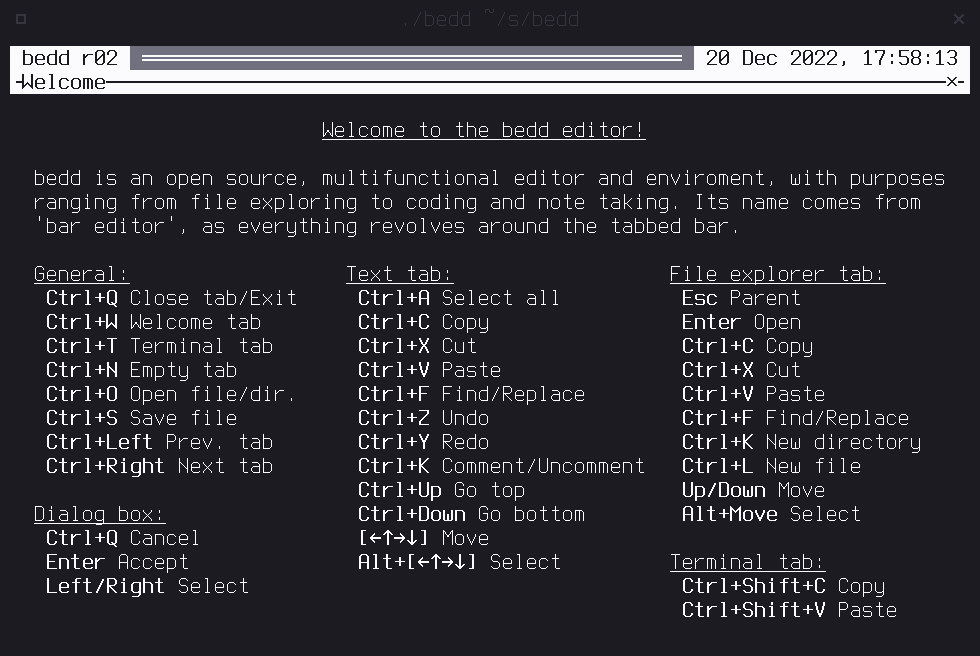
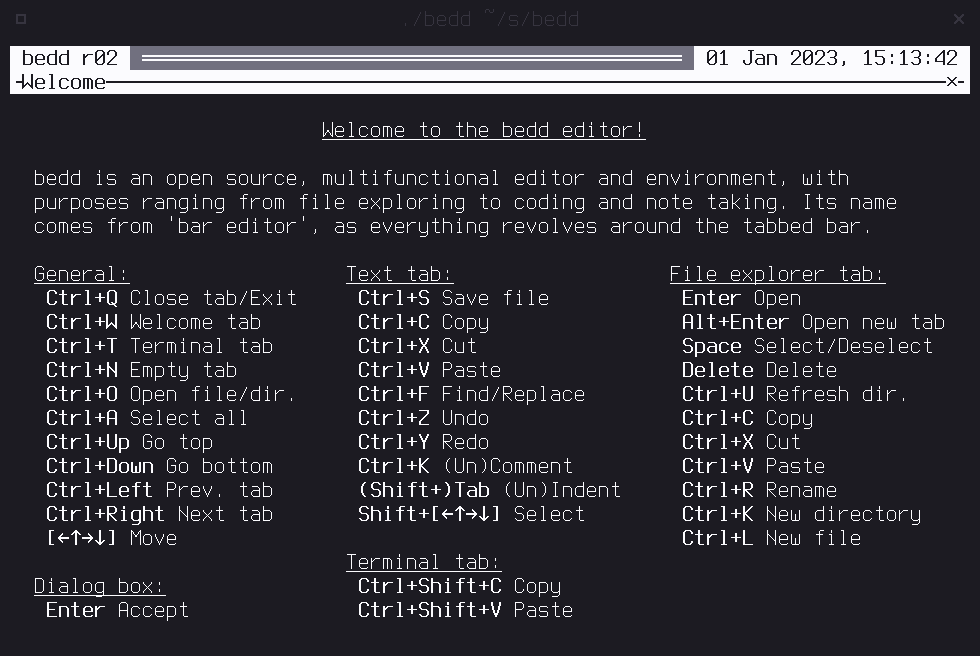
Updated README.md and images.

diff --git a/README.md b/README.md
@@ -1,6 +1,6 @@
 # bedd: the bar editor
 
-bedd is an open source, multifunctional editor and enviroment, with purposes ranging from file exploring to coding and note taking. Its
+bedd is an open source, multifunctional editor and environment, with purposes ranging from file exploring to coding and note taking. Its
 name comes from 'bar editor', due to the tab bar present on the top of the terminal, while also being a word play on the word "bed". It
 uses keybindings and shortcuts commonly found in grafical text editors, in order to provide the flattest learning curve as possible. The
 terminal UI is also optimized for simple terminals with limited color support, while being able to provide a "modern" interface. It also
